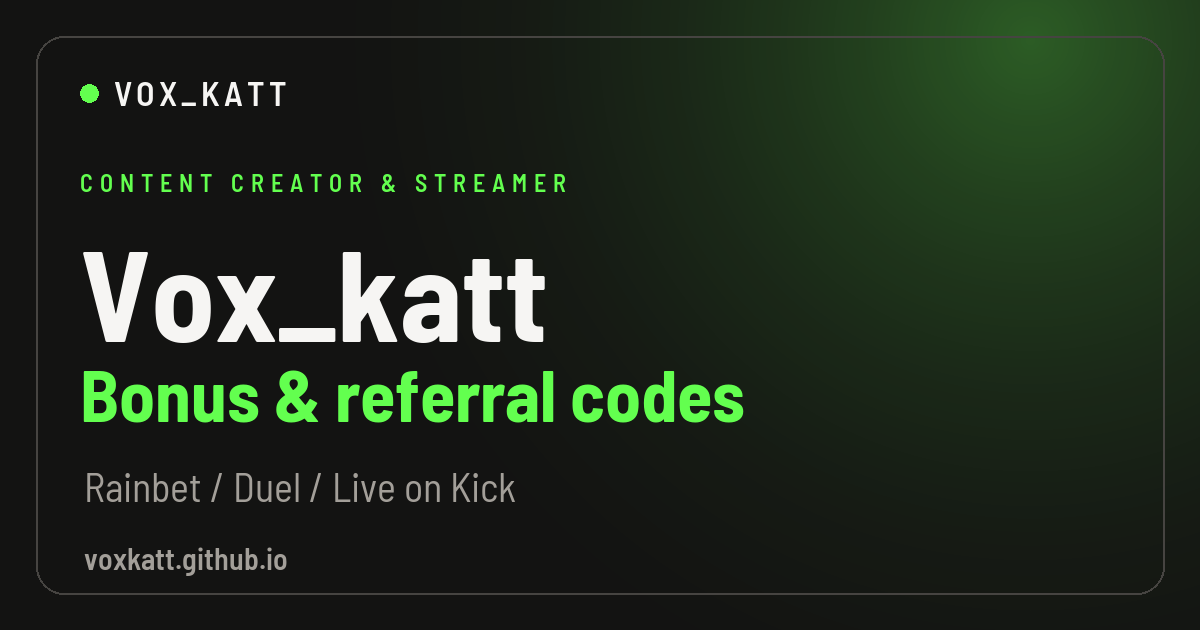
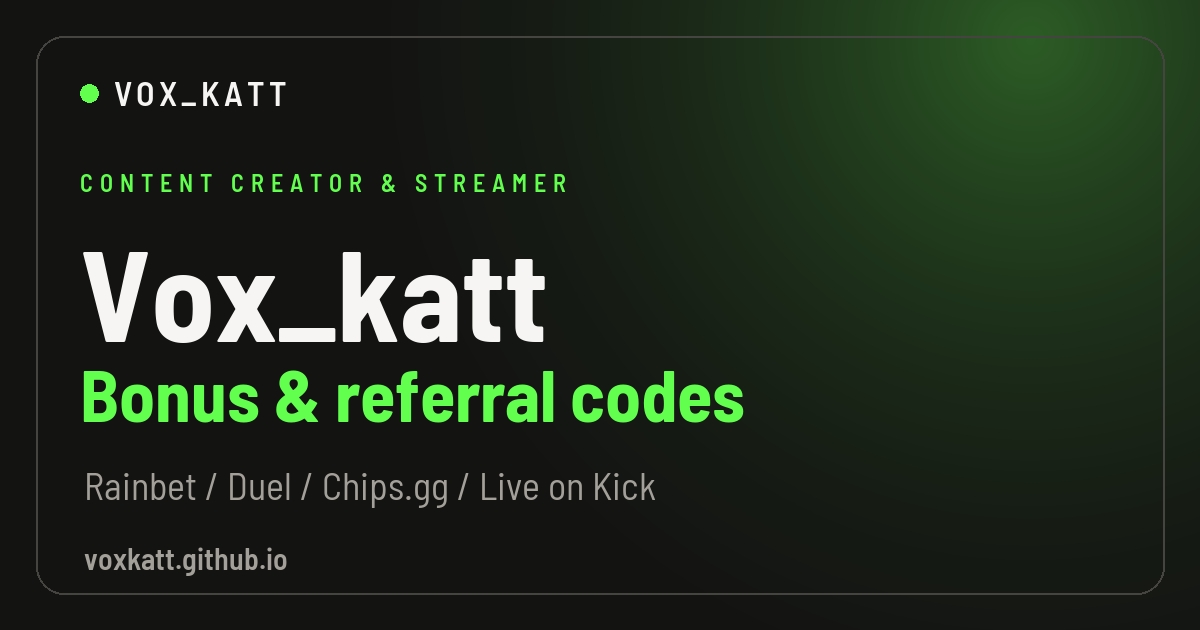
Add Chips.gg referral card and refresh social preview

Changed region(s): [[0.0617, 0.754, 0.555, 0.8143]]

diff --git a/index.html b/index.html
@@ -4,13 +4,13 @@
         <meta charset="UTF-8">
         <meta name="viewport" content="width=device-width, initial-scale=1.0">
         <title>Vox_katt — Referral Codes</title>
-        <meta name="description" content="Vox_katt's referral codes for Rainbet and Duel, plus the live Kick stream.">
+        <meta name="description" content="Vox_katt's referral codes for Rainbet, Duel and Chips.gg, plus the live Kick stream.">
         <meta name="theme-color" content="#131312">
         <link rel="canonical" href="https://voxkatt.github.io/">
         <meta property="og:type" content="website">
         <meta property="og:site_name" content="Vox_katt">
         <meta property="og:title" content="Vox_katt — Referral Codes">
-        <meta property="og:description" content="Vox_katt's referral codes for Rainbet and Duel, plus the live Kick stream.">
+        <meta property="og:description" content="Vox_katt's referral codes for Rainbet, Duel and Chips.gg, plus the live Kick stream.">
         <meta property="og:url" content="https://voxkatt.github.io/">
         <meta property="og:image" content="https://voxkatt.github.io/img/og-image.png">
         <meta property="og:image:width" content="1200">
@@ -82,7 +82,7 @@
                             <code class="code">voxkatt</code>
                             <button class="copy-button" type="button" data-copy="voxkatt">Copy</button>
                         </div>
-                        <a class="button" href="https://rainbet.com?r=voxkatt" target="_blank" rel="noopener">Go to Rainbet</a>
+                        <a class="button" href="https://rainbet.com?r=voxkatt" target="_blank" rel="sponsored noopener">Go to Rainbet</a>
                     </article>
                     <article class="card">
                         <div class="card-logo">
@@ -94,7 +94,19 @@
                             <code class="code">voxkatt</code>
                             <button class="copy-button" type="button" data-copy="voxkatt">Copy</button>
                         </div>
-                        <a class="button" href="https://duel.com/r/voxkatt" target="_blank" rel="noopener">Go to Duel</a>
+                        <a class="button" href="https://duel.com/r/voxkatt" target="_blank" rel="sponsored noopener">Go to Duel</a>
+                    </article>
+                    <article class="card">
+                        <div class="card-logo card-logo--wide">
+                            <img src="img/chips-gg-logo.svg" alt="Chips.gg logo" width="909" height="190" loading="lazy" decoding="async">
+                        </div>
+                        <h3>Chips.gg</h3>
+                        <p>Use this referral code when signing up:</p>
+                        <div class="code-row">
+                            <code class="code">voxkatt</code>
+                            <button class="copy-button" type="button" data-copy="voxkatt">Copy</button>
+                        </div>
+                        <a class="button" href="https://chips.gg/signup?r=voxkatt" target="_blank" rel="sponsored noopener">Go to Chips.gg</a>
                     </article>
                 </div>
             </section>

diff --git a/index.css b/index.css
@@ -348,6 +348,10 @@ main {
   object-fit: contain;
 }
 
+.card-logo--wide img {
+  height: 88px;
+}
+
 .code-row {
   display: flex;
   align-items: center;
